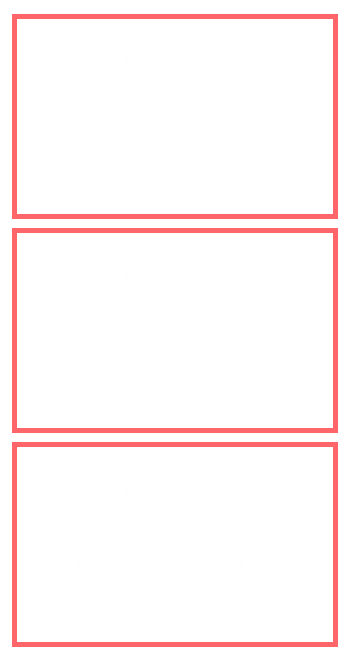
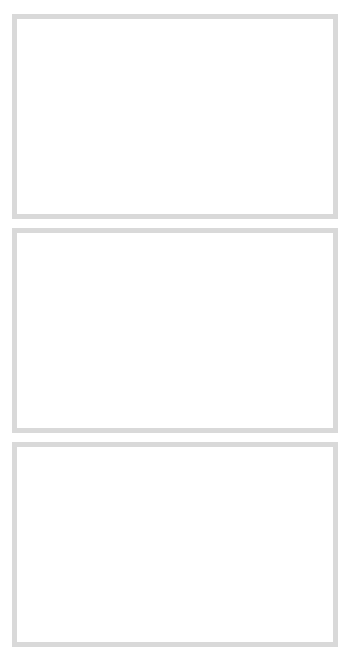
Describe the changes you made

Changed region(s): [[0.0286, 0.0, 0.9714, 1.0]]

diff --git a/About.html b/About.html
@@ -18,26 +18,33 @@
             background-color: #1e1e1e;
             font-family: "Times New Roman", serif;
             color: white;
-            padding: 20px;
+            text-align: center;
+            height: 100vh;
+            flex-direction: column;
+            align-items: center;
+            background-size: cover;
+            display: flex;
+            justify-content: space-between;
         }
 
-        /* Top navigation bar styling */
+        /* Styling the navigation bar */
         .nav-bar {
+            position: absolute;
+            top: 20px;
+            width: 100%;
             text-align: center;
-            margin-bottom: 40px;
+            z-index: 10;
         }
 
         .nav-bar a {
-            display: inline-block;
             margin: 0 15px;
             color: #ccc;
             text-decoration: none;
             font-size: 18px;
             position: relative;
-            padding: 10px 0;
+            transition: color 0.3s;
         }
 
-        /* Underline 'About' with a pastel color */
         .nav-bar a.about {
             color: #fff;
         }
@@ -47,14 +54,14 @@
             display: block;
             width: 100%;
             height: 2px;
-            background-color: #ff8686;
+            background-color: #7e7e7e;
             position: absolute;
-            bottom: 0;
+            bottom: -3px;
             left: 0;
         }
 
         .nav-bar a:hover {
-            color: #fff;
+            color: #7e7e7e;
         }
 
         /* Content layout styling */
@@ -64,7 +71,7 @@
             gap: 30px;
             align-items: center;
             max-width: 800px;
-            margin: auto;
+            margin: 100px auto;
         }
 
         .bio-section .section {
@@ -102,14 +109,14 @@
         }
 
         .download-btn {
-            background-color: #ff8686;
+            background-color: #7e7e7e;
             color: #1e1e1e;
             padding: 10px 20px;
             text-decoration: none;
             font-size: 16px;
             font-weight: bold;
             border-radius: 5px;
-            margin-top: 20px;
+            margin-top: 10px;
             display: inline-block;
         }
 
@@ -127,8 +134,8 @@
             }
 
             .nav-bar a {
-                font-size: 16px;
-                margin: 0 5px;
+                font-size: 18px;
+                margin: 0 15px;
             }
 
             .bio-section h2 {

diff --git a/Gallery.html b/Gallery.html
@@ -16,25 +16,24 @@
         /* Set dark background styling */
         body {
             background-color: #1e1e1e;
-            font-family: 'Helvetica Neue', Arial, sans-serif;
-            color: white;
-            min-height: 100vh;
-            display: flex;
-            flex-direction: column;
             font-family: "Times New Roman", serif;
+            color: white;
+            text-align: center;
+            height: 100vh;
+            flex-direction: column;
             align-items: center;
+            background-size: cover;
+            display: flex;
+            justify-content: space-between;
         }
 
-        /* Top navigation bar styling */
+        /* Styling the navigation bar */
         .nav-bar {
-            position: fixed;
-            top: 0;
+            position: absolute;
+            top: 20px;
             width: 100%;
-            padding: 15px 0;
-            background-color: rgba(30, 30, 30, 0.9);
-            z-index: 1000;
-            display: flex;
-            justify-content: center;
+            text-align: center;
+            z-index: 10;
         }
 
         .nav-bar a {
@@ -55,19 +54,14 @@
             display: block;
             width: 100%;
             height: 2px;
-            background-color: #ff8686;
+            background-color: #7e7e7e;
             position: absolute;
             bottom: -3px;
             left: 0;
-            transition: width 0.3s;
         }
 
         .nav-bar a:hover {
-            color: #fff;
-        }
-
-        .nav-bar a:hover::after {
-            width: 100%;
+            color: #7e7e7e;
         }
 
         /* Gallery styling */
@@ -200,6 +194,13 @@
         .home-button a:hover {
             color: #000;
         }
+        
+        @media (max-width: 600px) {
+            .nav-bar a {
+                font-size: 18px;
+                margin: 0 15px;
+    }
+}
     </style>
 </head>
 <body>

diff --git a/Events.html b/Events.html
@@ -20,18 +20,20 @@
             color: white;
             text-align: center;
             height: 100vh;
-            display: flex;
             flex-direction: column;
             align-items: center;
-            justify-content: center;
+            background-size: cover;
+            display: flex;
+            justify-content: space-between;
         }
 
-        /* Top navigation bar styling */
+        /* Styling the navigation bar */
         .nav-bar {
             position: absolute;
             top: 20px;
             width: 100%;
             text-align: center;
+            z-index: 10;
         }
 
         .nav-bar a {
@@ -40,6 +42,7 @@
             text-decoration: none;
             font-size: 18px;
             position: relative;
+            transition: color 0.3s;
         }
 
         .nav-bar a.events {
@@ -51,16 +54,16 @@
             display: block;
             width: 100%;
             height: 2px;
-            background-color: #ff8686;
+            background-color: #7e7e7e;
             position: absolute;
             bottom: -3px;
             left: 0;
         }
 
         .nav-bar a:hover {
-            color: #fff;
+            color: #7e7e7e;
         }
-
+        
         /* Image slider styling */
         .slider-container {
             width: 90%;
@@ -150,7 +153,7 @@
     <!-- Top Navigation -->
     <div class="nav-bar">
         <a href="About.html" onclick="navigate('about')">ABOUT</a>
-        <a href="Gallery.html" onclick="navigate('gallery')">GAELLERY</a>
+        <a href="Gallery.html" onclick="navigate('gallery')">GALLERY</a>
         <a href="Events.html" class="events" onclick="navigate('events')">EVENTS</a>
         <a href="Contact.html" onclick="navigate('contact')">CONTACT</a>
     </div>

diff --git a/index.html b/index.html
@@ -40,7 +40,7 @@
         }
     
         .nav-bar a:hover {
-            color: #444444;
+            color: #7e7e7e;
         }
     
         /* Bottom social media icons */
@@ -58,33 +58,6 @@
         .social-icons img {
             width: 100%;
             height: auto !important;
-        }
-    
-        /* Home button container */
-        .home-button {
-            position: fixed; /* Always visible */
-            bottom: 20px;
-            right: 10px;
-            background: rgba(255, 255, 255, 0); /* Transparent background */
-            border-radius: 50%;
-            width: 60px;
-            height: 60px;
-            display: flex;
-            align-items: center;
-            justify-content: center;
-            z-index: 9999; /* Ensures it appears above other elements */
-            pointer-events: none; /* Prevents interference with layout */
-        }
-    
-        .home-button a {
-            color: #ccc;
-            text-decoration: none;
-            font-size: 32px;
-            pointer-events: auto; /* Enables clickability only on the icon */
-        }
-    
-        .home-button a:hover {
-            color: #000;
         }
     </style>
     
@@ -105,13 +78,6 @@
         </a>
         <a href="https://www.youtube.com/@modestopicci5456" target="_blank">
             <img src="https://upload.wikimedia.org/wikipedia/commons/4/42/YouTube_icon_%282013-2017%29.png" alt="YouTube">
-        </a>
-    </div>
-
-    <!-- Home Button -->
-    <div class="home-button">
-        <a href="index.html">
-            <span class="material-icons">home</span>
         </a>
     </div>
 </body>

diff --git a/Contact.html b/Contact.html
@@ -18,7 +18,6 @@
             background: linear-gradient(120deg, #1e1e1e, #2e2e4d, #1e1e1e);
             background-size: 400% 400%;
             animation: gradient 15s ease infinite;
-            font-family: Arial, sans-serif;
             color: white;
             display: flex;
             flex-direction: column;
@@ -87,14 +86,14 @@
             display: block;
             width: 100%;
             height: 2px;
-            background-color: #ff8686;
+            background-color: #7e7e7e;
             position: absolute;
             bottom: -3px;
             left: 0;
         }
 
         .nav-bar a:hover {
-            color: #ff8686;
+            color: #7e7e7e;
         }
 
         /* Contact form styling */
@@ -126,7 +125,7 @@
         }
 
         .contact-form button {
-            background-color: #ff8686;
+            background-color: #7e7e7e;
             border: none;
             padding: 10px 20px;
             color: white;
@@ -136,7 +135,7 @@
         }
 
         .contact-form button:hover {
-            background-color: #ff5757;
+            background-color: #7e7e7e;
         }
         
         /* Home button container */
